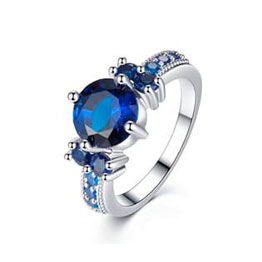
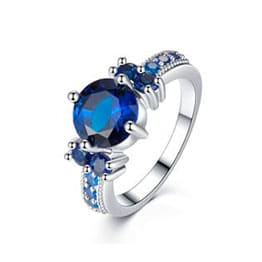
modificando imagenes

diff --git a/pages/anillos.html b/pages/anillos.html
@@ -305,7 +305,7 @@
             <!-- Fin Modal -->
             <div class="card mx-2 my-4 shadow " data-bs-toggle="modal" data-bs-target="#anillo5">            
                 <div class="bgImagen position-absolute w-100 h-100"></div>
-                <img loading="lazy" src="../imagenes/img-anillos/anillo-oro-18.png" class="card-img-top" alt="anillo de oro 18k" />
+                <img loading="lazy" src="../imagenes/img-anillos/anillo-oro-18.jpg" class="card-img-top" alt="anillo de oro 18k" />
                 <span class="verProducto position-absolute top-50 start-50 translate-middle text-uppercase ps-6">
                     Ver Producto
                 </span>
@@ -336,7 +336,7 @@
                     <button type="button" class="btn-close" data-bs-dismiss="modal" aria-label="Close"></button>
                     </div>
                     <div class="modal-body d-flex justify-content-center align-items-center modal-responsive">
-                        <img loading="lazy" src="../imagenes/img-anillos/anillo-oro-18.png" class="img-thumb" alt="anillo de oro 18k"/>
+                        <img loading="lazy" src="../imagenes/img-anillos/anillo-oro-18.jpg" class="img-thumb" alt="anillo de oro 18k"/>
                         <div class="d-flex flex-column align-items-center">
                             <div class="descripciond-flex p-3 text-center">
                                 Lorem ipsum dolor sit amet consectetur adipisicing elit. Rem ipsam non quibusdam. Accusamus neque, repudiandae ratione aliquam error.
@@ -470,7 +470,7 @@
             <!-- Fin Modal -->
             <div class="card mx-2 my-4 shadow " data-bs-toggle="modal" data-bs-target="#anillo8">            
                 <div class="bgImagen position-absolute w-100 h-100"></div>
-                <img loading="lazy" src="../imagenes/img-anillos/Anillo-oro.png" class="card-img-top" alt="anillo de oro con piedra rubi"/>
+                <img loading="lazy" src="../imagenes/img-anillos/Anillo-oro.jpg" class="card-img-top" alt="anillo de oro con piedra rubi"/>
                 <span class="verProducto position-absolute top-50 start-50 translate-middle text-uppercase ps-6">
                     Ver Producto
                 </span>
@@ -501,7 +501,7 @@
                     <button type="button" class="btn-close" data-bs-dismiss="modal" aria-label="Close"></button>
                     </div>
                     <div class="modal-body d-flex justify-content-center align-items-center modal-responsive">
-                        <img loading="lazy" src="../imagenes/img-anillos/Anillo-oro.png" class="img-thumb" alt="anillo de oro con piedra rubi"/>
+                        <img loading="lazy" src="../imagenes/img-anillos/Anillo-oro.jpg" class="img-thumb" alt="anillo de oro con piedra rubi"/>
                         <div class="d-flex flex-column align-items-center">
                             <div class="descripciond-flex p-3 text-center">
                                 Lorem ipsum dolor sit amet consectetur adipisicing elit. Rem ipsam non quibusdam. Accusamus neque, repudiandae ratione aliquam error.
@@ -635,7 +635,7 @@
             <!-- Fin Modal -->
             <div class="card mx-2 my-4 shadow " data-bs-toggle="modal" data-bs-target="#anillo11">            
                 <div class="bgImagen position-absolute w-100 h-100"></div>
-                <img loading="lazy" src="../imagenes/img-anillos/anillo-oro-diamantes.png" class="card-img-top" alt="anillo de oro con brillantes de compromiso"/>
+                <img loading="lazy" src="../imagenes/img-anillos/anillo-oro-diamantes.jpg" class="card-img-top" alt="anillo de oro con brillantes de compromiso"/>
                 <span class="verProducto position-absolute top-50 start-50 translate-middle text-uppercase ps-6">
                     Ver Producto
                 </span>
@@ -666,7 +666,7 @@
                     <button type="button" class="btn-close" data-bs-dismiss="modal" aria-label="Close"></button>
                     </div>
                     <div class="modal-body d-flex justify-content-center align-items-center modal-responsive">
-                        <img loading="lazy" src="../imagenes/img-anillos/anillo-oro-diamantes.png" class="img-thumb" alt="anillo de oro con brillantes de compromiso"/>
+                        <img loading="lazy" src="../imagenes/img-anillos/anillo-oro-diamantes.jpg" class="img-thumb" alt="anillo de oro con brillantes de compromiso"/>
                         <div class="d-flex flex-column align-items-center">
                             <div class="descripciond-flex p-3 text-center">
                                 Lorem ipsum dolor sit amet consectetur adipisicing elit. Rem ipsam non quibusdam. Accusamus neque, repudiandae ratione aliquam error.
